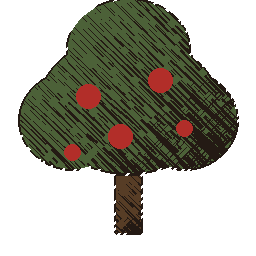
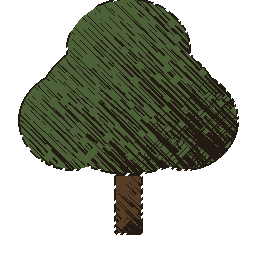
Add fruit overlay support for resource nodes and improve layering mechanics
- Introduce `SetResourceNodeHasFruit` to enable dynamic fruit overlay visibility based on resource node state.
- Create separate fruit overlay sprites with adjusted `renderPriority` to prevent z-fighting with base tree sprites.
- Add new `apple_tree_fruit` and `pear_tree_fruit` textures to resources.
- Enhance sprite creation with optional `renderPriority` and alpha blending support for composite layering.
- Update `Main` to handle fruit overlays during world ticks and node updates.
- Align indentation in `TerrainSandbox` to maintain coding standards.

diff --git a/src/ManyWinters.Godot/TerrainSandbox.cs b/src/ManyWinters.Godot/TerrainSandbox.cs
@@ -7,73 +7,73 @@ namespace ManyWinters.Godot;
 // out real elevation data + camera behavior, per conventions.md's prototype/production split.
 public partial class TerrainSandbox : Node3D
 {
-    private const string HeightmapPath = "res://Content/terrain/praha-liben/heightmap.json";
-    private const string WaterwaysPath = "res://Content/terrain/praha-liben/waterways.json";
-    private const string GroundTexturePath = "res://Content/terrain/ground.png";
+	private const string HeightmapPath = "res://Content/terrain/praha-liben/heightmap.json";
+	private const string WaterwaysPath = "res://Content/terrain/praha-liben/waterways.json";
+	private const string GroundTexturePath = "res://Content/terrain/ground.png";
 
-    private const string ConiferTreePath = "res://Content/terrain/conifer_tree.png";
-    private const string RockPilePath = "res://Content/terrain/rock_pile.png";
-    private const string PersonTexturePath = "res://Content/people/person.png";
-    private const int TreeCount = 90;
-    private const int RockCount = 35;
-    private const int PersonCount = 12;
-    private const float TreeHeightMeters = 8f;
-    private const float RockHeightMeters = 1.5f;
-    private const float PersonHeightMeters = PersonView.Height;
-    private const float PropMinScale = 0.8f;
-    private const float PropMaxScale = 1.3f;
-    private const int PropScatterSeed = 1;
+	private const string ConiferTreePath = "res://Content/terrain/conifer_tree.png";
+	private const string RockPilePath = "res://Content/terrain/rock_pile.png";
+	private const string PersonTexturePath = "res://Content/people/person.png";
+	private const int TreeCount = 90;
+	private const int RockCount = 35;
+	private const int PersonCount = 12;
+	private const float TreeHeightMeters = 8f;
+	private const float RockHeightMeters = 1.5f;
+	private const float PersonHeightMeters = PersonView.Height;
+	private const float PropMinScale = 0.8f;
+	private const float PropMaxScale = 1.3f;
+	private const int PropScatterSeed = 1;
 
-    // Sized for this heightmap's real scale (1000 m across, ~80 m of relief) - not the tiny
-    // 20-unit test map Main.cs uses. A camera at the old (test-map-sized) distances would sit
-    // inside the terrain itself here.
-    private const float InitialZoomDistance = 700f;
-    private const float MinZoom = 3f;
-    private const float MaxZoom = 2000f;
+	// Sized for this heightmap's real scale (1000 m across, ~80 m of relief) - not the tiny
+	// 20-unit test map Main.cs uses. A camera at the old (test-map-sized) distances would sit
+	// inside the terrain itself here.
+	private const float InitialZoomDistance = 700f;
+	private const float MinZoom = 3f;
+	private const float MaxZoom = 2000f;
 
-    private static readonly Color TreeFallbackColor = new(0.20f, 0.32f, 0.18f);
-    private static readonly Color RockFallbackColor = new(0.5f, 0.5f, 0.52f);
-    private static readonly Color PersonFallbackColor = new(0.9f, 0.7f, 0.5f);
+	private static readonly Color TreeFallbackColor = new(0.20f, 0.32f, 0.18f);
+	private static readonly Color RockFallbackColor = new(0.5f, 0.5f, 0.52f);
+	private static readonly Color PersonFallbackColor = new(0.9f, 0.7f, 0.5f);
 
-    private TerrainRenderer _terrain = null!;
-    private FreeCameraRig _cameraRig = null!;
+	private TerrainRenderer _terrain = null!;
+	private FreeCameraRig _cameraRig = null!;
 
-    public override void _Ready()
-    {
-        SetUpLighting();
+	public override void _Ready()
+	{
+		SetUpLighting();
 
-        _terrain = new TerrainRenderer(HeightmapPath, WaterwaysPath, GroundTexturePath);
-        _terrain.BuildTerrainMesh(this);
-        _terrain.BuildWaterways(this);
+		_terrain = new TerrainRenderer(HeightmapPath, WaterwaysPath, GroundTexturePath);
+		_terrain.BuildTerrainMesh(this);
+		_terrain.BuildWaterways(this);
 
-        var rng = new Random(PropScatterSeed);
-        _terrain.ScatterDecoration(this, rng, TreeCount, ConiferTreePath, TreeHeightMeters, TreeFallbackColor, PropMinScale, PropMaxScale);
-        _terrain.ScatterDecoration(this, rng, RockCount, RockPilePath, RockHeightMeters, RockFallbackColor, PropMinScale, PropMaxScale);
-        _terrain.ScatterDecoration(this, rng, PersonCount, PersonTexturePath, PersonHeightMeters, PersonFallbackColor, PropMinScale, PropMaxScale);
+		var rng = new Random(PropScatterSeed);
+		_terrain.ScatterDecoration(this, rng, TreeCount, ConiferTreePath, TreeHeightMeters, TreeFallbackColor, PropMinScale, PropMaxScale);
+		_terrain.ScatterDecoration(this, rng, RockCount, RockPilePath, RockHeightMeters, RockFallbackColor, PropMinScale, PropMaxScale);
+		_terrain.ScatterDecoration(this, rng, PersonCount, PersonTexturePath, PersonHeightMeters, PersonFallbackColor, PropMinScale, PropMaxScale);
 
-        _cameraRig = new FreeCameraRig(this, Vector3.Zero, InitialZoomDistance, MinZoom, MaxZoom);
-    }
+		_cameraRig = new FreeCameraRig(this, Vector3.Zero, InitialZoomDistance, MinZoom, MaxZoom);
+	}
 
-    public override void _Process(double delta)
-    {
-        _cameraRig.HandleInput((float)delta);
-    }
+	public override void _Process(double delta)
+	{
+		_cameraRig.HandleInput((float)delta);
+	}
 
-    public override void _Input(InputEvent @event)
-    {
-        if (@event is InputEventKey { Pressed: true, Echo: false, Keycode: Key.T })
-        {
-            _cameraRig.ToggleProjection();
-        }
+	public override void _Input(InputEvent @event)
+	{
+		if (@event is InputEventKey { Pressed: true, Echo: false, Keycode: Key.T })
+		{
+			_cameraRig.ToggleProjection();
+		}
 
-        _cameraRig.HandleMouseInput(@event);
-    }
+		_cameraRig.HandleMouseInput(@event);
+	}
 
-    private void SetUpLighting()
-    {
-        AddChild(new DirectionalLight3D
-        {
-            Rotation = new Vector3(Mathf.DegToRad(-55), Mathf.DegToRad(-35), 0),
-        });
-    }
+	private void SetUpLighting()
+	{
+		AddChild(new DirectionalLight3D
+		{
+			Rotation = new Vector3(Mathf.DegToRad(-55), Mathf.DegToRad(-35), 0),
+		});
+	}
 }

diff --git a/src/ManyWinters.Godot/ResourceNodeView.cs b/src/ManyWinters.Godot/ResourceNodeView.cs
@@ -19,11 +19,18 @@ public partial class ResourceNodeView : Area3D
 
     private static readonly Color HoverOutlineColor = new(0.95f, 0.95f, 0.92f, 0.85f);
 
+    // Layered a fraction in front of the base tree (see BillboardSprite.Create's
+    // renderPriority) so it composites cleanly on top instead of z-fighting with the
+    // canopy pixels directly underneath it - two billboards at the same position and
+    // depth otherwise have no defined draw order.
+    private const int FruitOverlayRenderPriority = 1;
+
     private readonly ResourceNodeId _nodeId;
     private readonly ResourceKindId _kind;
     private readonly bool _canFell;
     private readonly Action<ResourceNodeId> _onSelected;
     private Sprite3D _hoverOutline = null!;
+    private Sprite3D? _fruitOverlay;
 
     public ResourceNodeView(ResourceNodeId nodeId, ResourceKindId kind, bool canFell, Action<ResourceNodeId> onSelected)
     {
@@ -53,6 +60,20 @@ public partial class ResourceNodeView : Area3D
 
         AddChild(BillboardSprite.Create(TexturePathFor(), Size, fallbackColor));
 
+        // Composite sprite: the tree itself never changes, but whether it's currently
+        // bearing fruit does (see GatherCommand/WorldState.Advance) - a separate overlay
+        // layer means that doesn't need its own whole "bare tree" texture per kind.
+        if (_canFell)
+        {
+            _fruitOverlay = BillboardSprite.Create(
+                FruitOverlayTexturePath(),
+                Size,
+                fallbackColor,
+                SpriteBase3D.AlphaCutMode.Disabled,
+                FruitOverlayRenderPriority);
+            AddChild(_fruitOverlay);
+        }
+
         AddChild(new CollisionShape3D
         {
             Shape = new BoxShape3D { Size = new Vector3(Size, Size, Size) },
@@ -67,11 +88,23 @@ public partial class ResourceNodeView : Area3D
 
     private void OnMouseExited() => _hoverOutline.Visible = false;
 
+    // No-op for a non-tree node (_fruitOverlay stays null) - only fellable kinds have a
+    // fruit layer to show or hide.
+    public void SetHasFruit(bool hasFruit)
+    {
+        if (_fruitOverlay is not null)
+        {
+            _fruitOverlay.Visible = hasFruit;
+        }
+    }
+
     // A fellable node draws as a standing tree, not the fruit/veg icon used for the rest of
     // Content/resources/{kind} - {kind}_tree.png sits alongside {kind}.png for those kinds.
     private string TexturePathFor() => _canFell
         ? $"res://Content/resources/{_kind.Value}/{_kind.Value}_tree.png"
         : $"res://Content/resources/{_kind.Value}/{_kind.Value}.png";
+
+    private string FruitOverlayTexturePath() => $"res://Content/resources/{_kind.Value}/{_kind.Value}_tree_fruit.png";
 
     private static Color ColorFor(ResourceKindId kind)
     {

diff --git a/src/ManyWinters.Godot/BillboardSprite.cs b/src/ManyWinters.Godot/BillboardSprite.cs
@@ -13,7 +13,19 @@ public static class BillboardSprite
     // Creates a billboarded sprite whose on-screen height matches worldHeight. When the
     // texture is missing the sprite falls back to a flat quad tinted with fallbackColor, so
     // a kind without art is still visible and clickable.
-    public static Sprite3D Create(string texturePath, float worldHeight, Color fallbackColor)
+    //
+    // alphaCut/renderPriority default to the normal single-sprite case (opaque, depth-sorted
+    // like any other 3D object). A layer meant to composite on top of another sprite at the
+    // same position - e.g. ResourceNodeView's fruit overlay - has no defined draw order
+    // against it under OpaquePrepass (both are at the same depth), so it needs standard alpha
+    // blending (Disabled) plus a higher renderPriority to reliably draw second/on top, the
+    // same technique SpriteOutline already uses to draw behind instead.
+    public static Sprite3D Create(
+        string texturePath,
+        float worldHeight,
+        Color fallbackColor,
+        SpriteBase3D.AlphaCutMode alphaCut = SpriteBase3D.AlphaCutMode.OpaquePrepass,
+        int renderPriority = 0)
     {
         var sprite = new Sprite3D
         {
@@ -29,7 +41,8 @@ public static class BillboardSprite
             // the new art actually has (each edge pixel snaps to either fully opaque or
             // fully invisible). OpaquePrepass keeps Discard's correct depth-sorting behavior
             // for overlapping billboards while still alpha-blending the soft edge on top.
-            AlphaCut = SpriteBase3D.AlphaCutMode.OpaquePrepass,
+            AlphaCut = alphaCut,
+            RenderPriority = renderPriority,
             Shaded = false,
             CastShadow = GeometryInstance3D.ShadowCastingSetting.Off,
         };

diff --git a/src/ManyWinters.Godot/Main.cs b/src/ManyWinters.Godot/Main.cs
@@ -113,15 +113,18 @@ public partial class Main : Node3D
             _presenter.SetPersonPosition(person.Id, person.Position, (float)TickIntervalSeconds);
         }
 
-        // Catches nodes that withered from climate stress (see WorldState.Advance) - felling
-        // and depletion already remove their own view immediately, this is just the passive
-        // per-tick case.
         foreach (var node in _world.ResourceNodes)
         {
             if (!node.IsAlive)
             {
+                // Catches nodes that withered from climate stress (see WorldState.Advance) -
+                // felling already removes its own view immediately, this is just the passive
+                // per-tick case.
                 _presenter.RemoveResourceNodeView(node.Id);
+                continue;
             }
+
+            _presenter.SetResourceNodeHasFruit(node.Id, node.RemainingAmount > 0);
         }
 
         GD.Print($"Tick {_world.Clock.CurrentTick}: {_world.People.Count(p => p.IsAlive)} of {_world.People.Count} people alive.");

diff --git a/src/ManyWinters.Godot/WorldPresenter.cs b/src/ManyWinters.Godot/WorldPresenter.cs
@@ -106,6 +106,14 @@ public sealed class WorldPresenter
         }
     }
 
+    public void SetResourceNodeHasFruit(ResourceNodeId id, bool hasFruit)
+    {
+        if (_resourceNodeViews.TryGetValue(id, out var view))
+        {
+            view.SetHasFruit(hasFruit);
+        }
+    }
+
     public void RemoveResourceNodeView(ResourceNodeId id)
     {
         if (_resourceNodeViews.TryGetValue(id, out var view))
